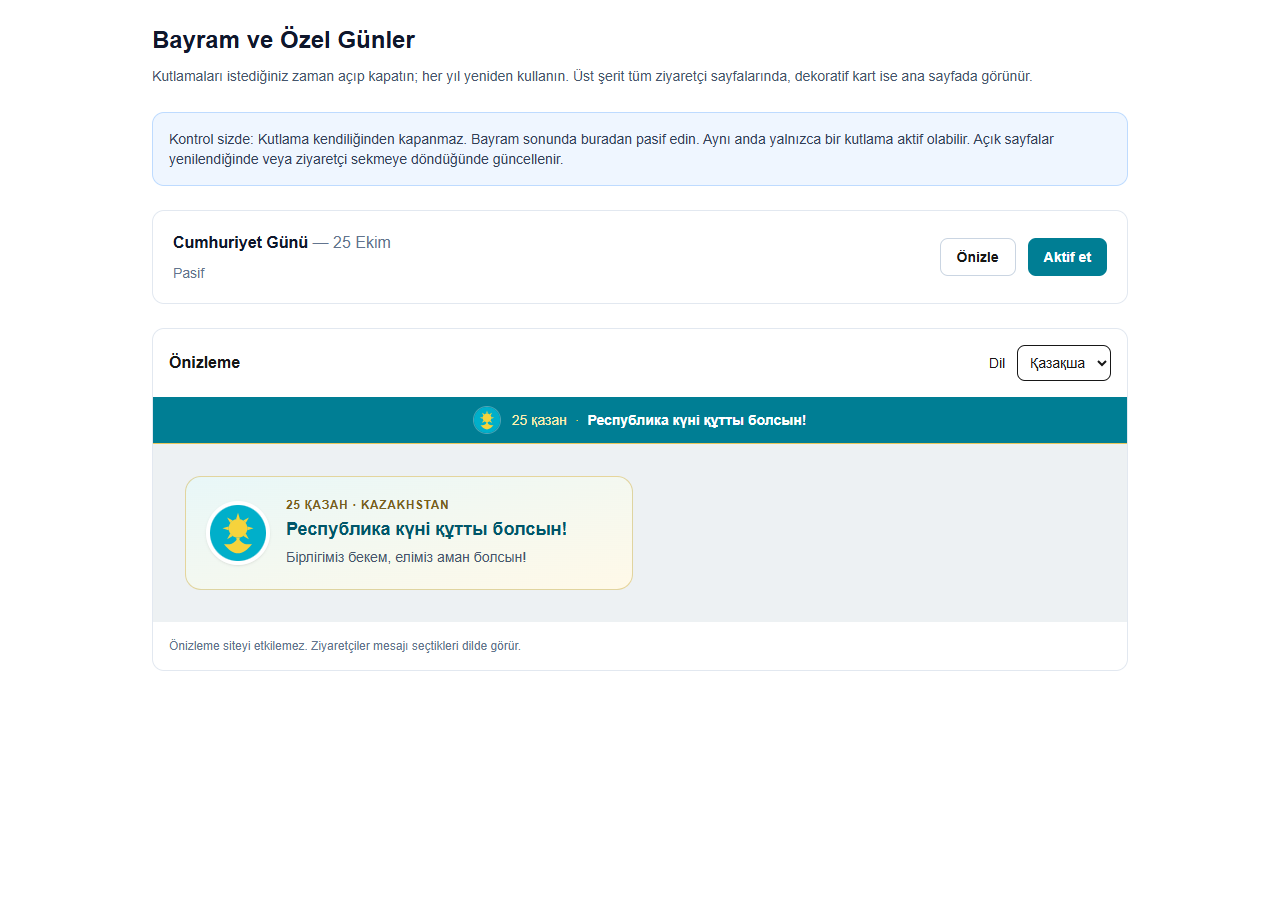
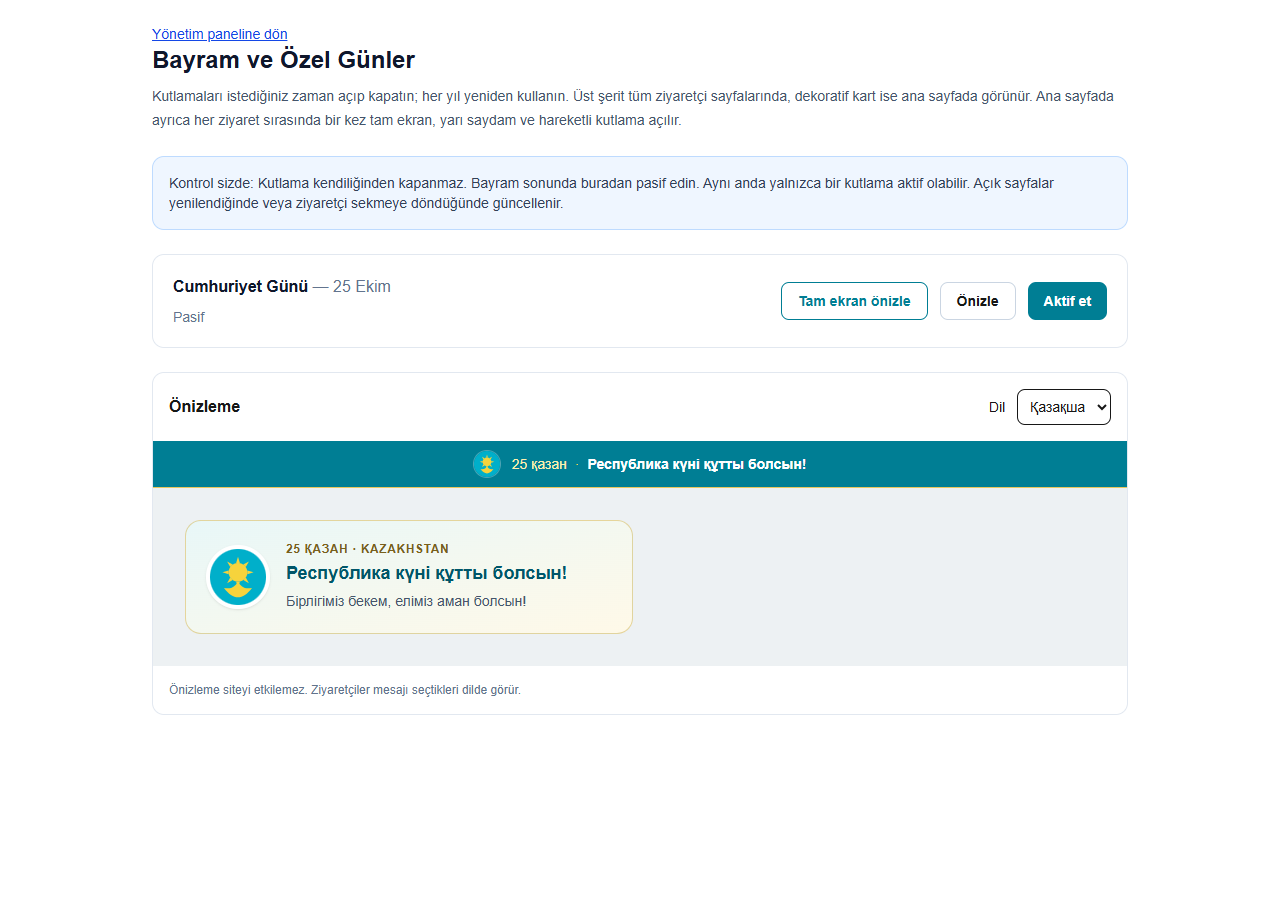
General updates and improvements

Changed region(s): [[0.0938, 0.0311, 0.9062, 0.6844], [0.125, 0.7156, 0.4062, 0.7778]]

diff --git a/app/components/CelebrationWelcome.module.css b/app/components/CelebrationWelcome.module.css
@@ -1,0 +1,61 @@
+.dialog {
+  position: fixed; inset: 0; width: 100%; max-width: none; height: 100%; height: 100dvh;
+  max-height: none; margin: 0; padding: 0; border: 0; color: #fff7dc;
+  background: linear-gradient(125deg, rgb(0 72 90 / 76%), rgb(0 120 141 / 69%) 50%, rgb(0 66 83 / 80%));
+  backdrop-filter: blur(4px); -webkit-backdrop-filter: blur(4px); overflow: auto; overscroll-behavior: contain;
+}
+.dialog::backdrop { background: rgb(0 42 55 / 12%); }
+.dialog[open] { animation: appear .5s ease-out both; }
+.stage { position: relative; isolation: isolate; display: flex; align-items: center; justify-content: center; min-height: 100%; overflow: hidden; padding: 48px 24px 38px; cursor: pointer; }
+.ambient { position: absolute; inset: 0; z-index: -1; pointer-events: none; background: radial-gradient(ellipse at 50% 26%, rgb(255 222 143 / 15%), transparent 48%), radial-gradient(ellipse at 0% 100%, rgb(0 189 201 / 25%), transparent 45%); }
+.content { position: relative; z-index: 2; width: min(900px, 100%); text-align: center; }
+.emblem { display: block; width: clamp(150px, 25vh, 280px); height: clamp(130px, 22vh, 240px); object-fit: contain; margin: 0 auto 8px; filter: drop-shadow(0 0 25px rgb(255 220 121 / 28%)); animation: emblemGlow 6s ease-in-out infinite; }
+.date { display: flex; align-items: center; justify-content: center; gap: 22px; margin: 8px 0 14px; color: #ffe49a; font-size: clamp(13px, 1.7vw, 21px); letter-spacing: .3em; text-transform: uppercase; }
+.date span { width: 48px; height: 1px; background: linear-gradient(90deg, transparent, #e9cb7c); }
+.date span:last-child { transform: rotate(180deg); }
+.title { max-width: 900px; margin: 0 auto; font-family: Georgia, 'Times New Roman', serif; font-weight: 500; font-size: clamp(36px, 6.3vw, 80px); line-height: 1.08; text-wrap: balance; color: #ffedba; text-shadow: 0 2px 18px rgb(255 207 90 / 25%), 0 3px 5px rgb(0 43 53 / 30%); }
+.note { margin: 18px auto 0; max-width: 650px; font-family: Georgia, 'Times New Roman', serif; font-size: clamp(17px, 2vw, 26px); line-height: 1.5; text-wrap: balance; }
+.divider { display: flex; align-items: center; justify-content: center; gap: 12px; color: #f4d27e; margin: 16px auto; }
+.divider span { width: 100px; height: 1px; background: linear-gradient(90deg, transparent, #e9cb7c); }
+.divider span:last-child { transform: rotate(180deg); }
+.brand { font-size: clamp(16px, 2vw, 24px); letter-spacing: .2em; margin: 0 0 22px; color: white; }
+.brand span { font-weight: 700; }
+.enter { display: inline-flex; align-items: center; justify-content: center; gap: 24px; min-height: 52px; min-width: 250px; max-width: 100%; border: 1.5px solid #ffe4a0; border-radius: 999px; padding: 12px 28px; background: linear-gradient(110deg, rgb(255 227 153 / 15%), rgb(255 255 255 / 5%)); color: #fff1bc; box-shadow: inset 0 0 12px rgb(255 223 142 / 10%), 0 0 20px rgb(255 218 112 / 12%); font: inherit; font-size: 17px; font-weight: 600; cursor: pointer; transition: background .2s, box-shadow .2s; }
+.enter:hover { background: rgb(255 229 169 / 23%); box-shadow: 0 0 28px rgb(255 218 112 / 24%); }
+.enter:focus-visible, .close:focus-visible { outline: 3px solid white; outline-offset: 5px; }
+.hint { margin: 16px 0 0; font-size: 12px; color: #e3f1ee; }
+.close { position: absolute; z-index: 4; top: max(18px, env(safe-area-inset-top)); right: max(18px, env(safe-area-inset-right)); display: grid; place-items: center; width: 46px; height: 46px; border: 1px solid rgb(255 237 186 / 65%); border-radius: 50%; color: white; background: rgb(0 62 78 / 25%); cursor: pointer; }
+.particles { position: absolute; inset: 0; overflow: hidden; pointer-events: none; }
+.confetti, .spark { position: absolute; display: block; width: var(--size); height: calc(var(--size) * 1.6); background: linear-gradient(120deg, #fff4c4, #dbad45 50%, #fff2b0); opacity: .7; animation: drift var(--duration) ease-in-out var(--delay) infinite; transform: rotate(var(--rotation)); }
+.spark { height: var(--size); border-radius: 50%; filter: blur(1px); box-shadow: 0 0 14px #ffdc7e; opacity: .65; animation-name: shimmer; }
+.ornament { position: absolute; pointer-events: none; color: rgb(240 206 125 / 65%); width: clamp(110px, 17vw, 220px); }
+.ornament svg { display: block; width: 100%; height: auto; }
+.topOrnament { top: -6px; left: -6px; }
+.bottomOrnament { bottom: -6px; right: -6px; transform: rotate(180deg); }
+.ribbon { position: absolute; z-index: -1; pointer-events: none; width: 140%; height: 160px; bottom: -120px; left: -20%; border: 2px solid rgb(237 204 122 / 65%); border-radius: 50%; transform: rotate(-5deg); box-shadow: 0 -12px 0 rgb(0 159 179 / 20%), 0 -14px 0 rgb(237 204 122 / 22%); }
+@keyframes appear { from { opacity: 0; } to { opacity: 1; } }
+@keyframes drift { 0%, 100% { translate: 0 -20px; rotate: -15deg; opacity: .35; } 50% { translate: 18px 35px; rotate: 35deg; opacity: .85; } }
+@keyframes shimmer { 0%, 100% { opacity: .2; scale: .6; } 50% { opacity: .8; scale: 1.15; } }
+@keyframes emblemGlow { 0%, 100% { filter: drop-shadow(0 0 18px rgb(255 220 121 / 18%)); } 50% { filter: drop-shadow(0 0 30px rgb(255 220 121 / 36%)); } }
+@media (max-width: 600px) {
+  .stage { padding: 72px 22px 38px; }
+  .emblem { width: 180px; height: 155px; margin-bottom: 14px; }
+  .title { font-size: clamp(33px, 9.5vw, 52px); }
+  .date { gap: 12px; letter-spacing: .23em; }
+  .date span { width: 28px; }
+  .note { margin-top: 18px; font-size: 19px; }
+  .brand { margin-bottom: 22px; }
+  .confetti:nth-child(n+17) { display: none; }
+}
+@media (max-height: 650px) and (min-width: 601px) {
+  .stage { padding: 25px 70px; }
+  .emblem { width: 135px; height: 110px; }
+  .title { font-size: 46px; }
+  .note { margin-top: 10px; font-size: 19px; }
+  .divider { margin: 10px 0; }
+  .brand { margin-bottom: 12px; font-size: 17px; }
+}
+@media (prefers-reduced-motion: reduce) {
+  .dialog[open], .emblem, .confetti, .spark { animation: none; }
+  .enter { transition: none; }
+}

diff --git a/app/components/CelebrationWelcome.jsx b/app/components/CelebrationWelcome.jsx
@@ -1,0 +1,95 @@
+'use client';
+
+import { useEffect, useId, useRef } from 'react';
+import styles from './CelebrationWelcome.module.css';
+
+const seenThisVisit = new Set();
+const labels = {
+  kz: { enter: 'Сайтқа өту', hint: 'Жалғастыру үшін экранды түртіңіз', close: 'Жабу' },
+  ru: { enter: 'Перейти на сайт', hint: 'Нажмите на экран, чтобы продолжить', close: 'Закрыть' },
+  tr: { enter: 'Siteye devam et', hint: 'Devam etmek için ekrana dokunun', close: 'Kapat' },
+  en: { enter: 'Continue to site', hint: 'Tap anywhere to continue', close: 'Close' },
+};
+const particles = Array.from({ length: 28 }, (_, index) => ({
+  left: `${(index * 37 + 5) % 100}%`, top: `${(index * 23 + 7) % 100}%`,
+  delay: `${-(index % 9)}s`, duration: `${7 + index % 6}s`,
+  rotate: `${index * 29}deg`, size: `${4 + index % 5 * 2}px`,
+}));
+
+function GoldCorner() {
+  return <svg viewBox="0 0 200 200" width="200" height="200" fill="none" stroke="currentColor" strokeWidth="2" aria-hidden="true">
+    <path d="M5 190V5h185M16 174V16h158" />
+    {[0, 1, 2].map(index => <g key={index} transform={`translate(26 ${24 + index * 54})`}>
+      <path d="M0 24C0 2 34 2 34 24c0 20-25 20-25 5 0-9 13-9 13 0M34 24c0-22 34-22 34 0 0 20-25 20-25 5 0-9 13-9 13 0M34 24v24m-12-9 12 9 12-9" />
+    </g>)}
+    {[0, 1].map(index => <g key={index} transform={`translate(${82 + index * 52} 24) rotate(90 22 22)`}>
+      <path d="M0 24C0 2 34 2 34 24c0 20-25 20-25 5 0-9 13-9 13 0M34 24v24m-12-9 12 9 12-9" />
+    </g>)}
+  </svg>;
+}
+
+export default function CelebrationWelcome({ celebration, language, enabled = true, preview = false, onDismiss }) {
+  const dialogRef = useRef(null);
+  const titleId = useId();
+  const activeId = celebration?.id;
+
+  useEffect(() => {
+    const dialog = dialogRef.current;
+    if (!enabled || !activeId || !dialog) return;
+    // An annual key lets next year's celebration appear in a long-lived tab too.
+    const year = new Intl.DateTimeFormat('en', { year: 'numeric', timeZone: 'Asia/Almaty' }).format(new Date());
+    const key = `hl-celebration-welcome:${activeId}:${year}`;
+    if (!preview) {
+      if (seenThisVisit.has(key)) return;
+      try { if (sessionStorage.getItem(key)) return; } catch {}
+    }
+    const previousFocus = document.activeElement;
+    const previousOverflow = document.body.style.overflow;
+    dialog.showModal();
+    document.body.style.overflow = 'hidden';
+    if (!preview) {
+      seenThisVisit.add(key);
+      try { sessionStorage.setItem(key, 'seen'); } catch {}
+    }
+    const restoreScroll = () => { document.body.style.overflow = previousOverflow; };
+    dialog.addEventListener('close', restoreScroll);
+    return () => {
+      dialog.removeEventListener('close', restoreScroll);
+      if (dialog.open) dialog.close();
+      restoreScroll();
+      if (previousFocus instanceof HTMLElement && previousFocus.isConnected) previousFocus.focus({ preventScroll: true });
+    };
+  }, [activeId, enabled, preview]);
+
+  if (!celebration || !enabled) return null;
+  const copy = celebration.copy[language] || celebration.copy.ru;
+  const ui = labels[language] || labels.ru;
+  const dismiss = () => { dialogRef.current?.close(); onDismiss?.(); };
+
+  return <dialog ref={dialogRef} className={styles.dialog} aria-labelledby={titleId}
+    onClick={dismiss} onCancel={event => { event.preventDefault(); dismiss(); }}>
+    <div className={styles.stage}>
+      <div className={styles.ambient} aria-hidden="true" />
+      <div className={`${styles.ornament} ${styles.topOrnament}`} aria-hidden="true"><GoldCorner /></div>
+      <div className={`${styles.ornament} ${styles.bottomOrnament}`} aria-hidden="true"><GoldCorner /></div>
+      <div className={styles.particles} aria-hidden="true">{particles.map((item, index) => <i key={index} className={index % 3 ? styles.confetti : styles.spark}
+        style={{ left: item.left, top: item.top, '--delay': item.delay, '--duration': item.duration, '--rotation': item.rotate, '--size': item.size }} />)}</div>
+      <button type="button" className={styles.close} aria-label={ui.close} onClick={event => { event.stopPropagation(); dismiss(); }}>
+        <svg viewBox="0 0 24 24" width="24" height="24" fill="none" stroke="currentColor" strokeWidth="1.5" aria-hidden="true"><path d="m6 6 12 12M18 6 6 18" /></svg>
+      </button>
+      <div className={styles.content}>
+        {/* Decorative transparent WebP; all copy stays live and translated. */}
+        {/* eslint-disable-next-line @next/next/no-img-element */}
+        <img src="/images/celebrations/republic-day-emblem.webp" width="420" height="360" alt="" className={styles.emblem} />
+        <p className={styles.date}><span />{copy.date}<span /></p>
+        <h2 id={titleId} className={styles.title}>{copy.title}</h2>
+        <p className={styles.note}>{copy.note}</p>
+        <div className={styles.divider} aria-hidden="true"><span />◇<span /></div>
+        <p className={styles.brand}>HORECA<span>LINK</span></p>
+        <button type="button" autoFocus className={styles.enter} onClick={event => { event.stopPropagation(); dismiss(); }}>{ui.enter}<span aria-hidden="true">→</span></button>
+        <p className={styles.hint}>{ui.hint}</p>
+      </div>
+      <div className={styles.ribbon} aria-hidden="true" />
+    </div>
+  </dialog>;
+}

diff --git a/app/satissitok/admin/celebrations/page.jsx b/app/satissitok/admin/celebrations/page.jsx
@@ -3,6 +3,7 @@
 import { useCallback, useEffect, useState } from 'react';
 import Link from 'next/link';
 import { auth } from '@/firebase';
+import CelebrationWelcome from '@/app/components/CelebrationWelcome';
 import { CELEBRATIONS } from '@/app/lib/celebrations';
 import { CelebrationStrip, CelebrationDetail } from '@/app/components/Celebration';
 
@@ -25,6 +26,7 @@ export default function CelebrationsAdmin() {
   const [message, setMessage] = useState('');
   const [preview, setPreview] = useState(null);
   const [language, setLanguage] = useState('kz');
+  const [welcomePreview, setWelcomePreview] = useState(null);
   const load = useCallback(async () => {
     setBusy(true); setError('');
     try { setSettings(await requestSettings()); }
@@ -45,14 +47,15 @@ export default function CelebrationsAdmin() {
 
   return <main className="mx-auto max-w-5xl space-y-6 p-4 sm:p-6">
     <Link href="/satissitok/admin" className="text-sm text-blue-700 underline">Yönetim paneline dön</Link>
-    <div><h1 className="text-2xl font-bold text-slate-900">Bayram ve Özel Günler</h1><p className="mt-2 text-sm leading-6 text-slate-600">Kutlamaları istediğiniz zaman açıp kapatın; her yıl yeniden kullanın. Üst şerit tüm ziyaretçi sayfalarında, dekoratif kart ise ana sayfada görünür.</p></div>
+    <div><h1 className="text-2xl font-bold text-slate-900">Bayram ve Özel Günler</h1><p className="mt-2 text-sm leading-6 text-slate-600">Kutlamaları istediğiniz zaman açıp kapatın; her yıl yeniden kullanın. Üst şerit tüm ziyaretçi sayfalarında, dekoratif kart ise ana sayfada görünür. Ana sayfada ayrıca her ziyaret sırasında bir kez tam ekran, yarı saydam ve hareketli kutlama açılır.</p></div>
     <p className="rounded-xl border border-blue-200 bg-blue-50 p-4 text-sm text-slate-700">Kontrol sizde: Kutlama kendiliğinden kapanmaz. Bayram sonunda buradan pasif edin. Aynı anda yalnızca bir kutlama aktif olabilir. Açık sayfalar yenilendiğinde veya ziyaretçi sekmeye döndüğünde güncellenir.</p>
     {error && <div role="alert" className="rounded-lg bg-red-50 p-4 text-red-700">{error}<button type="button" disabled={busy} onClick={load} className="ml-3 underline disabled:opacity-50">Yeniden yükle</button></div>}
     {message && <p role="status" className="rounded-lg bg-green-50 p-4 text-green-800">{message}</p>}
     {!settings ? <p>{busy ? 'Yükleniyor…' : 'Ayarlar yüklenemedi.'}</p> : CELEBRATIONS.map(item => <article key={item.id} className="flex flex-wrap items-center justify-between gap-4 rounded-xl border border-slate-200 bg-white p-5">
       <div><h2 className="font-semibold text-slate-900">{item.name} <span className="font-normal text-slate-500">— {item.date}</span></h2><p className={`mt-2 text-sm font-medium ${settings.activeId === item.id ? 'text-green-700' : 'text-slate-500'}`}>{settings.activeId === item.id ? 'Aktif' : 'Pasif'}</p></div>
-      <div className="flex gap-3"><button type="button" onClick={() => setPreview(preview?.id === item.id ? null : item)} className="rounded-lg border border-slate-300 px-4 py-2 text-sm font-semibold" aria-expanded={preview?.id === item.id}>Önizle</button><button type="button" disabled={busy} onClick={() => toggle(item.id)} aria-pressed={settings.activeId === item.id} className={`rounded-lg px-4 py-2 text-sm font-semibold text-white disabled:opacity-50 ${settings.activeId === item.id ? 'bg-slate-700' : 'bg-[#007e94]'}`}>{busy ? 'İşleniyor…' : settings.activeId === item.id ? 'Pasif et' : 'Aktif et'}</button></div>
+      <div className="flex flex-wrap gap-3"><button type="button" onClick={() => setWelcomePreview(item)} className="rounded-lg border border-[#007e94] px-4 py-2 text-sm font-semibold text-[#007e94]">Tam ekran önizle</button><button type="button" onClick={() => setPreview(preview?.id === item.id ? null : item)} className="rounded-lg border border-slate-300 px-4 py-2 text-sm font-semibold" aria-expanded={preview?.id === item.id}>Önizle</button><button type="button" disabled={busy} onClick={() => toggle(item.id)} aria-pressed={settings.activeId === item.id} className={`rounded-lg px-4 py-2 text-sm font-semibold text-white disabled:opacity-50 ${settings.activeId === item.id ? 'bg-slate-700' : 'bg-[#007e94]'}`}>{busy ? 'İşleniyor…' : settings.activeId === item.id ? 'Pasif et' : 'Aktif et'}</button></div>
     </article>)}
     {preview && <section className="overflow-hidden rounded-xl border border-slate-200 bg-white"><div className="flex flex-wrap items-center justify-between gap-3 p-4"><h2 className="font-semibold">Önizleme</h2><label className="text-sm">Dil <select value={language} onChange={event => setLanguage(event.target.value)} className="ml-2 rounded-lg border p-2"><option value="kz">Қазақша</option><option value="ru">Русский</option><option value="tr">Türkçe</option><option value="en">English</option></select></label></div><CelebrationStrip celebration={preview} language={language} /><div className="bg-[#edf1f3] p-4 sm:p-8"><div className="max-w-md"><CelebrationDetail celebration={preview} language={language} /></div></div><p className="p-4 text-xs text-slate-500">Önizleme siteyi etkilemez. Ziyaretçiler mesajı seçtikleri dilde görür.</p></section>}
+    {welcomePreview && <CelebrationWelcome celebration={welcomePreview} language={language} preview onDismiss={() => setWelcomePreview(null)} />}
   </main>;
 }

diff --git a/app/components/Celebration.jsx b/app/components/Celebration.jsx
@@ -5,6 +5,7 @@ import { createContext, useContext, useEffect, useState } from 'react';
 import { usePathname } from 'next/navigation';
 import { useLang } from '../context/LanguageContext';
 import { CELEBRATIONS } from '../lib/celebrations';
+import CelebrationWelcome from './CelebrationWelcome';
 
 const CelebrationContext = createContext(null);
 const isInternal = path => path.startsWith('/satissitok') || path.startsWith('/admin') || path === '/login' || path === '/forgot-password';
@@ -29,7 +30,7 @@ export function CelebrationProvider({ children }) {
     return () => { controller.abort(); document.removeEventListener('visibilitychange', onVisible); };
   }, [pathname]);
   const celebration = isInternal(pathname) ? null : CELEBRATIONS.find(item => item.id === activeId);
-  return <CelebrationContext.Provider value={celebration}>{children}</CelebrationContext.Provider>;
+  return <CelebrationContext.Provider value={celebration}>{children}<CelebrationOpening /></CelebrationContext.Provider>;
 }
 
 export function CelebrationStrip({ celebration, language }) {
@@ -60,4 +61,11 @@ export function CelebrationHeroDetail() {
   const celebration = useContext(CelebrationContext);
   const { lang } = useLang();
   return celebration ? <div className="mb-4"><CelebrationDetail celebration={celebration} language={lang} /></div> : null;
+}
+
+function CelebrationOpening() {
+  const celebration = useContext(CelebrationContext);
+  const { lang } = useLang();
+  const pathname = usePathname();
+  return <CelebrationWelcome celebration={celebration} language={lang} enabled={pathname === '/'} />;
 }

diff --git a/docs/celebration-welcome.md b/docs/celebration-welcome.md
@@ -1,0 +1,26 @@
+# Cumhuriyet Günü açılış kutlaması
+
+Yönetim Paneli → Bayram ve Özel Günler → Cumhuriyet Günü.
+
+- Aktif et / Pasif et, üst şeridi, ana sayfa kartını ve tam ekran kutlamayı birlikte yönetir.
+- Tam ekran önizle, canlı ayarı ve ziyaret geçmişini değiştirmeden açılır. Önizle bölümündeki dil seçimi tam ekran önizlemede de kullanılır.
+- Tam ekran yalnızca ana sayfada, kutlama başına ve takvim yılı başına tarayıcı sekmesindeki ziyaret süresince bir kez görünür. Sayfa yenilemek gösterim kaydını silmez; yeni ziyaret için yeni bir sekme açılabilir.
+- Ekrana tıklama/dokunma, devam düğmesi, kapatma düğmesi ve Escape ile kapanır. Odak diyalog içinde tutulur; sayfa kaydırması kapanınca geri gelir.
+- Hareketi azaltma tercihi varsa animasyonlar durur.
+- Metinler Kazakça, Rusça, Türkçe ve İngilizce olarak canlı HTML'dir.
+- Görsel: `public/images/celebrations/republic-day-emblem.webp`, yaklaşık 80 KB, saydam alfa kanallı. Video veya ek animasyon kütüphanesi kullanılmaz.
+- Yerel uygulamadır; bu çalışma kapsamında dağıtım yapılmadı ve canlı bayram ayarı değiştirilmedi.
+
+## Görsel üretim kaydı
+
+Built-in image_gen kullanıldı, transparent_background=true. Üretilen motif WebP olarak küçültüldü; metinler ve arka plan görsele işlenmedi.
+
+Üretim istemi:
+
+> A single isolated Kazakhstan national flag inspired GOLDEN SUN AND SOARING STEPPE EAGLE decorative emblem, transparent background, no text, no border, no mockup. For a premium Republic Day celebration web overlay. Centered symmetrical composition, golden circular sun above with 32 evenly spaced narrow droplet sunrays, below it a graceful steppe eagle silhouette with wings stretched broadly upward and outward, traditional Kazakhstan flag motif. Refined metallic champagne gold with subtly embossed satin finish and restrained highlights. Very sharp clean silhouette edges, generous transparent margins. No laurel wreath, no shield, no crown, no blue background, no additional objects, no confetti, no typography, no watermark. Front view, elegant iconic decorative national motif. Transparent background is essential.
+
+## Kontrol
+
+`npm run build`; ilgili JSX dosyalarında ESLint; `scripts/test-celebrations-ui.cjs`; `scripts/test-celebration-welcome.cjs`.
+
+Tarayıcı testleri gerçek bayram verisine yazmaz. Playwright kurulu olmalıdır; kurulu Edge için `PLAYWRIGHT_CHANNEL=msedge` kullanılabilir. Tam ekran testi yerel production sunucusunu varsayılan olarak 3100 portunda bekler; `CELEBRATION_TEST_URL` ile değiştirilebilir.
